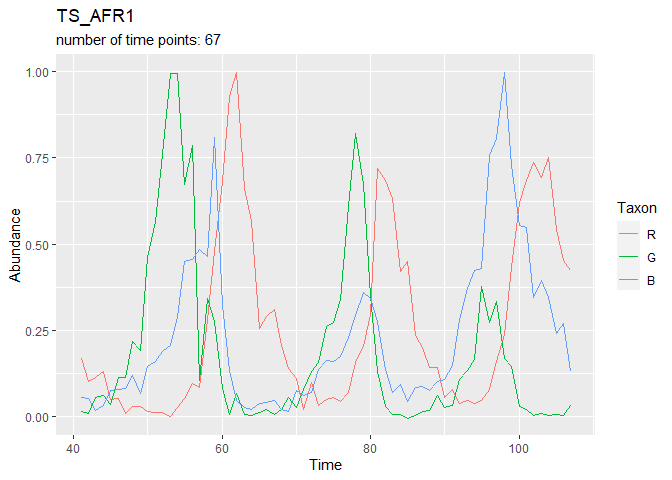
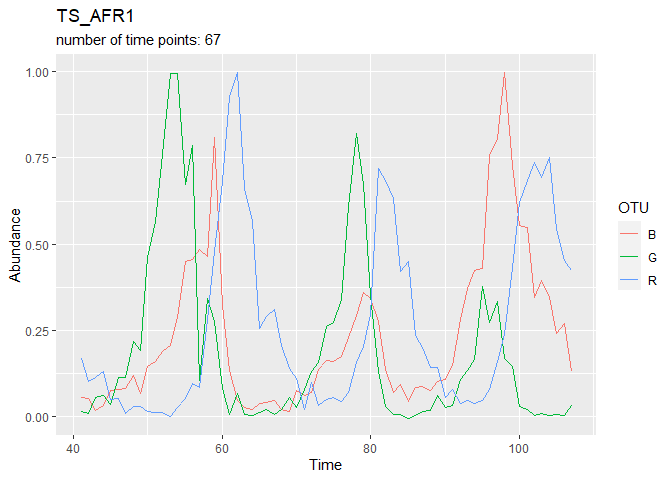
bring all ts into the same phyloseq fromat and save ps objects

diff --git a/explore/01f-timeseries-NODEBNGMpaper.md b/explore/01f-timeseries-NODEBNGMpaper.md
@@ -1,6 +1,6 @@
 01f-timeseries-NODEBNGMpaper
 ================
-Compiled at 2023-09-13 21:03:13 UTC
+Compiled at 2023-09-28 09:47:44 UTC
 
 ``` r
 here::i_am(paste0(params$name, ".Rmd"), uuid = "9506fa44-f8a3-401c-aa4c-950659e05f3f")
@@ -11,7 +11,8 @@ The purpose of this document is …
 ``` r
 library("conflicted")
 library(data.table)
-library(tidyverse)
+library(dplyr)
+library(ggplot2)
 library(phyloseq)
 ```
 
@@ -26,7 +27,7 @@ path_target <- projthis::proj_path_target(params$name)
 path_source <- projthis::proj_path_source(params$name)
 ```
 
-## Read Data
+## Read Data and make Phyloseq objects
 
 ``` r
 folderpath_data <-
@@ -36,36 +37,53 @@ files <- c("TS_3DLV",
            "TS_AFR1",
            "TS_AFR2",
            "TS_AFR3",
-           "TS_HL",
            "TS_RPS")
 
 for(ts_name in files) {
   tmp <-
-    fread(paste0(folderpath_data, ts_name, ".csv"), header = T)
+    fread(paste0(folderpath_data, ts_name, ".csv"), header = T) %>%
+    .[, SampleID := sprintf("ID-%03d", t)] %>%
+    tibble::column_to_rownames("SampleID") %>%
+    rename(Time = t)
   
   assign(paste0("dt_", ts_name),
          tmp)
 }
 
-# # convert to phyloseq after reading the data
-# for(ts_name in files) {
-#   tmp <-
-#     as.matrix(fread(paste0(folderpath_data, ts_name, ".csv"),
-#                     header = T), rownames = 1) %>%
-#     t() %>% 
-#     otu_table(taxa_are_rows = T)
-#   
-#   assign(paste0("ps_", ts_name),
-#          phyloseq(tmp))
-# }
-rm(tmp)
+dt_TS_HL <-
+  fread(paste0(folderpath_data, "TS_HL.csv"), header = T) %>%
+    .[, SampleID := sprintf("ID-%03d", as.numeric(row.names(.)))] %>%
+    tibble::column_to_rownames("SampleID") %>%
+    rename(Time = Year)
+
+files <- c(files, "TS_HL")
+
+# convert to phyloseq after reading the data
+for(ts_name in files) {
+  tmp_otu <-
+    get(paste0("dt_", ts_name)) %>% 
+    subset(select = -Time) %>% 
+    t() %>% 
+    otu_table(taxa_are_rows = T)
+  
+  tmp_sample <-
+    get(paste0("dt_", ts_name)) %>% 
+    subset(select = Time) %>% 
+    sample_data()
+
+  assign(paste0("ps_", ts_name),
+         phyloseq(tmp_otu, tmp_sample))
+}
+
+rm(tmp, tmp_otu, tmp_sample)
 ```
 
 ``` r
 # special case (including more sample info): TS_Ushio
-dt_TS_Ushio_raw <- 
-  fread(paste0(folderpath_data, "TS_Ushio.csv")) %>% 
-  tibble::column_to_rownames("time_step")
+dt_TS_Ushio_raw <-
+  fread(paste0(folderpath_data, "TS_Ushio.csv")) %>%
+  .[, SampleID := sprintf("ID-%03d", time_step)] %>%
+  tibble::column_to_rownames("SampleID")
 
 dt_TS_Ushio <-
   dt_TS_Ushio_raw %>% select(
@@ -93,82 +111,100 @@ otu_TS_Ushio <-
 
 samples_TS_Ushio <-
   dt_TS_Ushio_raw %>%
-  select("date_tag", "surf.t", "bot.t", "Y", "M", "D")
+  select("date_tag", "surf.t", "bot.t", "Y", "M", "D", "time_step")
+samples_TS_Ushio$Time <-
+  as.Date(paste0(samples_TS_Ushio$Y, "-", samples_TS_Ushio$M, "-", 
+                 samples_TS_Ushio$D), 
+          format = "%Y-%m-%d")
 
 ps_TS_Ushio <-
   phyloseq(otu_TS_Ushio, sample_data(samples_TS_Ushio))
+
+files <- c(files, "TS_Ushio")
 ```
+
+### Overview over the phyloseq objects
 
 ``` r
-# ps_TS_3DLV
-# ps_TS_AFR1
-# ps_TS_AFR2
-# ps_TS_AFR3
-# ps_TS_HL
-# ps_TS_RPS
-
-ps_TS_Ushio
+for(ts_name in files) {
+  cat(ts_name, "\n")
+  print(get(paste0("ps_", ts_name)))
+  cat("\n")
+}
 ```
 
+    ## TS_3DLV 
+    ## phyloseq-class experiment-level object
+    ## otu_table()   OTU Table:         [ 3 taxa and 101 samples ]
+    ## sample_data() Sample Data:       [ 101 samples by 1 sample variables ]
+    ## 
+    ## TS_AFR1 
+    ## phyloseq-class experiment-level object
+    ## otu_table()   OTU Table:         [ 3 taxa and 67 samples ]
+    ## sample_data() Sample Data:       [ 67 samples by 1 sample variables ]
+    ## 
+    ## TS_AFR2 
+    ## phyloseq-class experiment-level object
+    ## otu_table()   OTU Table:         [ 3 taxa and 67 samples ]
+    ## sample_data() Sample Data:       [ 67 samples by 1 sample variables ]
+    ## 
+    ## TS_AFR3 
+    ## phyloseq-class experiment-level object
+    ## otu_table()   OTU Table:         [ 3 taxa and 41 samples ]
+    ## sample_data() Sample Data:       [ 41 samples by 1 sample variables ]
+    ## 
+    ## TS_RPS 
+    ## phyloseq-class experiment-level object
+    ## otu_table()   OTU Table:         [ 3 taxa and 648 samples ]
+    ## sample_data() Sample Data:       [ 648 samples by 1 sample variables ]
+    ## 
+    ## TS_HL 
+    ## phyloseq-class experiment-level object
+    ## otu_table()   OTU Table:         [ 2 taxa and 91 samples ]
+    ## sample_data() Sample Data:       [ 91 samples by 1 sample variables ]
+    ## 
+    ## TS_Ushio 
     ## phyloseq-class experiment-level object
     ## otu_table()   OTU Table:         [ 15 taxa and 285 samples ]
-    ## sample_data() Sample Data:       [ 285 samples by 6 sample variables ]
+    ## sample_data() Sample Data:       [ 285 samples by 8 sample variables ]
 
 ## Plot Datasets
 
 ``` r
 for(ts_name in files) {
-  tmp <-
-    melt(get(paste0("dt_", ts_name)),
-         id.vars = 1, variable.name = "Taxon", value.name = "Abundance")
+  ps_tmp <-
+      psmelt(get(paste0("ps_", ts_name)))
   plt_tmp <-
-    ggplot(tmp, aes(x = get(colnames(tmp)[1]), y = Abundance, col = Taxon)) +
+    ggplot(ps_tmp, aes(x = Time, y = Abundance, col = OTU)) +
     geom_line() +
     labs(title = ts_name,
-         subtitle = paste0("number of time points: ", uniqueN(tmp[,1])),
+         subtitle = paste0("number of time points: ", uniqueN(ps_tmp[,1])),
          x = "Time")
   print(plt_tmp)
 }
 ```
 
-![](01f-timeseries-NODEBNGMpaper_files/figure-gfm/unnamed-chunk-4-1.png)<!-- -->![](01f-timeseries-NODEBNGMpaper_files/figure-gfm/unnamed-chunk-4-2.png)<!-- -->![](01f-timeseries-NODEBNGMpaper_files/figure-gfm/unnamed-chunk-4-3.png)<!-- -->![](01f-timeseries-NODEBNGMpaper_files/figure-gfm/unnamed-chunk-4-4.png)<!-- -->![](01f-timeseries-NODEBNGMpaper_files/figure-gfm/unnamed-chunk-4-5.png)<!-- -->![](01f-timeseries-NODEBNGMpaper_files/figure-gfm/unnamed-chunk-4-6.png)<!-- -->
+![](01f-timeseries-NODEBNGMpaper_files/figure-gfm/unnamed-chunk-4-1.png)<!-- -->![](01f-timeseries-NODEBNGMpaper_files/figure-gfm/unnamed-chunk-4-2.png)<!-- -->![](01f-timeseries-NODEBNGMpaper_files/figure-gfm/unnamed-chunk-4-3.png)<!-- -->![](01f-timeseries-NODEBNGMpaper_files/figure-gfm/unnamed-chunk-4-4.png)<!-- -->![](01f-timeseries-NODEBNGMpaper_files/figure-gfm/unnamed-chunk-4-5.png)<!-- -->![](01f-timeseries-NODEBNGMpaper_files/figure-gfm/unnamed-chunk-4-6.png)<!-- -->![](01f-timeseries-NODEBNGMpaper_files/figure-gfm/unnamed-chunk-4-7.png)<!-- -->
+
+<!-- ### Plot relative abundances for TS_Ushio -->
+<!-- ```{r} -->
+<!-- # calculcate relative abundances -->
+<!-- ps_TS_Ushio_rel <- -->
+<!--   transform_sample_counts(ps_TS_Ushio, function(x) x / sum(x)) -->
+<!-- # bar plot phyloseq objects -->
+<!-- plot_bar(ps_TS_Ushio_rel, x = "Time", fill = "OTU") + -->
+<!--   geom_bar(aes(color = OTU, fill = OTU), stat = "identity", position = "stack") + -->
+<!--   labs(title = "TS_Ushio relative Abundances", -->
+<!--        x = "Time") -->
+<!-- ``` -->
+
+## Save Phyloseq Objects
 
 ``` r
-# TS_Ushio
-tmp <-
-    melt(data.table(Time = as.numeric(rownames(dt_TS_Ushio)), dt_TS_Ushio),
-         id.vars = 1, variable.name = "Taxon", value.name = "Abundance")
-```
-
-    ## Warning in melt.data.table(data.table(Time = as.numeric(rownames(dt_TS_Ushio)),
-    ## : 'measure.vars' [Aurelia.sp, Engraulis.japonicus, Plotosus.lineatus,
-    ## Sebastes.inermis, ...] are not all of the same type. By order of hierarchy, the
-    ## molten data value column will be of type 'double'. All measure variables not of
-    ## type 'double' will be coerced too. Check DETAILS in ?melt.data.table for more
-    ## on coercion.
-
-``` r
-plt_tmp <-
-  ggplot(tmp, aes(x = as.numeric(Time), y = Abundance, col = Taxon)) +
-  geom_line() +
-  labs(title = ts_name,
-       subtitle = paste0("number of time points: ", uniqueN(tmp[,1])),
-       x = "Time")
-  
-print(plt_tmp)
-```
-
-![](01f-timeseries-NODEBNGMpaper_files/figure-gfm/unnamed-chunk-4-7.png)<!-- -->
-
-``` r
-# bar plot phyloseq objects
-plot_bar(ps_TS_Ushio, x = "as.numeric(Sample)", fill = "OTU") # +
-```
-
-![](01f-timeseries-NODEBNGMpaper_files/figure-gfm/unnamed-chunk-5-1.png)<!-- -->
-
-``` r
-  # geom_bar(aes(color = OTU, fill = OTU), stat = "identity", position = "stack")
+for (ts_name in files) {
+  saveRDS(get(paste0("ps_", ts_name)),
+          path_target(paste0("ps_", ts_name, ".rds")))
+}
 ```
 
 ## Files written
@@ -180,6 +216,13 @@ These files have been written to the target directory,
 projthis::proj_dir_info(path_target())
 ```
 
-    ## # A tibble: 0 × 4
-    ## # ℹ 4 variables: path <fs::path>, type <fct>, size <fs::bytes>,
-    ## #   modification_time <dttm>
+    ## # A tibble: 7 × 4
+    ##   path            type         size modification_time  
+    ##   <fs::path>      <fct> <fs::bytes> <dttm>             
+    ## 1 ps_TS_3DLV.rds  file        3.12K 2023-09-28 09:47:51
+    ## 2 ps_TS_AFR1.rds  file         2.2K 2023-09-28 09:47:51
+    ## 3 ps_TS_AFR2.rds  file        1.63K 2023-09-28 09:47:51
+    ## 4 ps_TS_AFR3.rds  file        1.49K 2023-09-28 09:47:51
+    ## 5 ps_TS_HL.rds    file        1.44K 2023-09-28 09:47:51
+    ## 6 ps_TS_RPS.rds   file        7.99K 2023-09-28 09:47:51
+    ## 7 ps_TS_Ushio.rds file       11.06K 2023-09-28 09:47:51
